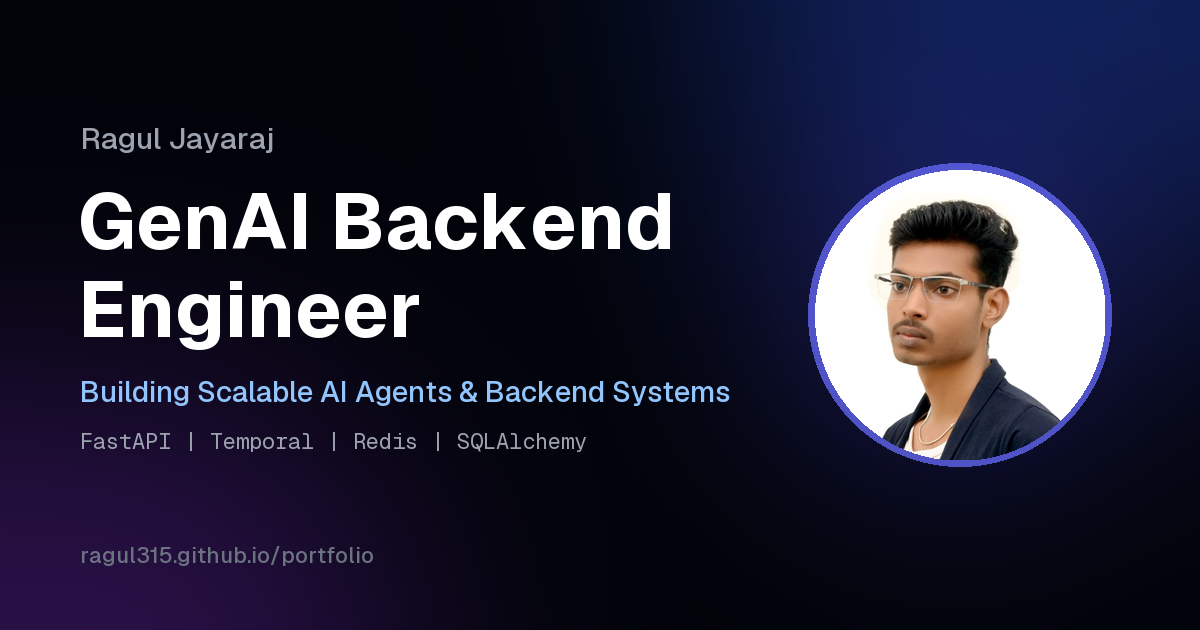
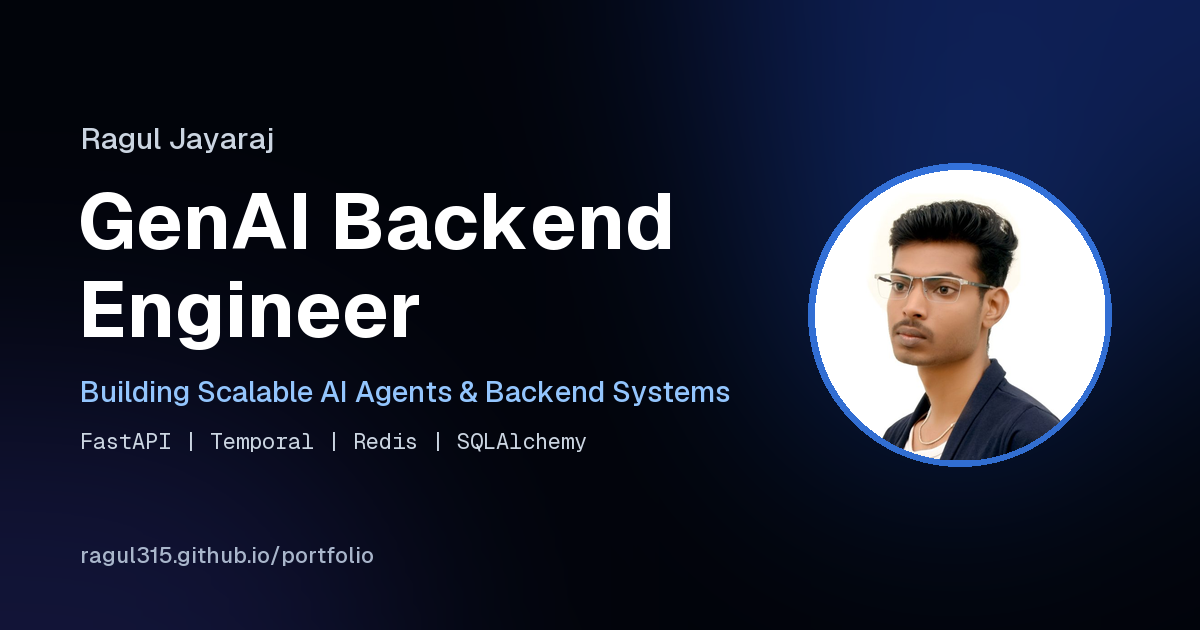
Shift theme blue

diff --git a/assets/css/style.css b/assets/css/style.css
@@ -7,9 +7,9 @@
   --dim: #a9b6cb;
   --card: rgba(17, 24, 39, 0.62);
   --line: rgba(55, 65, 81, 0.55);
-  --line-hi: rgba(99, 102, 241, 0.55);
-  --indigo: #6366f1;
-  --indigo-hi: #818cf8;
+  --line-hi: rgba(59, 130, 246, 0.55);
+  --accent: #3b82f6;
+  --accent-hi: #60a5fa;
   --blue: #93c5fd;
   --radius: 14px;
   --sans: "Geist", "Segoe UI", system-ui, -apple-system, sans-serif;
@@ -26,14 +26,14 @@ h1, h2, h3, h4 { margin: 0; color: var(--text); font-weight: 600; line-height: 1
 p { margin: 0 0 1rem; }
 ul, ol { margin: 0; padding: 0; list-style: none; }
 .mono { font-family: var(--mono); }
-code { font: 500 .88em var(--mono); color: var(--text); background: rgba(99, 102, 241, .12); border: 1px solid rgba(99, 102, 241, .2); padding: .05em .38em; border-radius: 5px; white-space: nowrap; }
-:focus-visible { outline: 2px solid var(--indigo-hi); outline-offset: 3px; border-radius: 6px; }
+code { font: 500 .88em var(--mono); color: var(--text); background: rgba(59, 130, 246, .12); border: 1px solid rgba(59, 130, 246, .2); padding: .05em .38em; border-radius: 5px; white-space: nowrap; }
+:focus-visible { outline: 2px solid var(--accent-hi); outline-offset: 3px; border-radius: 6px; }
 svg { width: 20px; height: 20px; fill: none; stroke: currentColor; stroke-width: 1.6; stroke-linecap: round; stroke-linejoin: round; }
 svg.fill { fill: currentColor; stroke: none; }
 .container { width: min(1120px, 100% - 40px); margin-inline: auto; }
 main { overflow-x: clip; }
 
-.skip-link { position: absolute; left: 12px; top: -50px; z-index: 100; padding: 8px 14px; border-radius: 8px; background: var(--indigo); color: #fff; }
+.skip-link { position: absolute; left: 12px; top: -50px; z-index: 100; padding: 8px 14px; border-radius: 8px; background: var(--accent); color: #fff; }
 .skip-link:focus { top: 12px; }
 
 /* ---------- Background ---------- */
@@ -41,11 +41,11 @@ main { overflow-x: clip; }
   position: fixed; inset: 0; z-index: -1; pointer-events: none;
   background:
     radial-gradient(700px 500px at 82% -5%, rgba(59, 130, 246, 0.12), transparent 70%),
-    radial-gradient(600px 500px at 10% 105%, rgba(168, 85, 247, 0.10), transparent 70%),
-    linear-gradient(135deg, #030712 0%, rgba(23, 37, 84, 0.32) 55%, rgba(59, 7, 100, 0.22) 100%),
+    radial-gradient(600px 500px at 10% 105%, rgba(59, 130, 246, 0.05), transparent 70%),
+    linear-gradient(135deg, #030712 0%, rgba(23, 37, 84, 0.34) 60%, rgba(30, 27, 75, 0.14) 100%),
     var(--bg);
 }
-.scroll-progress { position: fixed; top: 0; left: 0; z-index: 60; height: 2px; width: 100%; background: linear-gradient(90deg, #3b82f6, #6366f1, #a855f7); transform-origin: 0 50%; transform: scaleX(0); }
+.scroll-progress { position: fixed; top: 0; left: 0; z-index: 60; height: 2px; width: 100%; background: linear-gradient(90deg, #3b82f6, #60a5fa 80%, #818cf8); transform-origin: 0 50%; transform: scaleX(0); }
 
 /* ---------- Cards (glass) ---------- */
 .card {
@@ -55,7 +55,7 @@ main { overflow-x: clip; }
 .hover-card { overflow: hidden; transition: border-color .25s, transform .25s; }
 .hover-card::before {
   content: ""; position: absolute; inset: 0; pointer-events: none; opacity: 0; transition: opacity .25s;
-  background: radial-gradient(380px circle at var(--mx, 50%) var(--my, 50%), rgba(99, 102, 241, .09), transparent 50%);
+  background: radial-gradient(380px circle at var(--mx, 50%) var(--my, 50%), rgba(59, 130, 246, .09), transparent 50%);
 }
 .hover-card:hover { border-color: var(--line-hi); transform: translateY(-3px); }
 .hover-card:hover::before { opacity: 1; }
@@ -73,7 +73,7 @@ main { overflow-x: clip; }
 .nav-links { display: flex; gap: 2px; }
 .nav-links a { display: block; padding: 6px 12px; border-radius: 8px; font-size: 14px; font-weight: 500; color: var(--muted); transition: color .2s, background .2s; }
 .nav-links a:hover { color: var(--text); }
-.nav-links a.active { color: var(--text); background: rgba(99, 102, 241, .14); }
+.nav-links a.active { color: var(--text); background: rgba(59, 130, 246, .14); }
 .nav-actions { display: flex; align-items: center; gap: 8px; }
 .ghost-btn {
   display: inline-flex; align-items: center; gap: 8px; height: 38px; padding: 0 10px; border-radius: 8px; cursor: pointer;
@@ -89,8 +89,8 @@ main { overflow-x: clip; }
   font: 600 15px var(--sans); border: 1px solid transparent; transition: background .2s, border-color .2s, color .2s;
 }
 .btn-sm { padding: 8px 14px; font-size: 14px; border-radius: 8px; }
-.btn-primary { color: #fff; background: var(--indigo); }
-.btn-primary:hover { background: #4f46e5; }
+.btn-primary { color: #fff; background: var(--accent); }
+.btn-primary:hover { background: #2563eb; }
 .btn-outline { color: var(--text); background: rgba(17, 24, 39, .5); border-color: var(--line); }
 .btn-outline:hover { border-color: var(--line-hi); }
 
@@ -110,12 +110,12 @@ main { overflow-x: clip; }
 .hero-photo { position: relative; justify-self: center; width: min(270px, 60vw); aspect-ratio: 1; }
 .hero-photo::before {
   content: ""; position: absolute; inset: 8%; border-radius: 50%; z-index: -1; filter: blur(50px);
-  background: radial-gradient(circle, rgba(99, 102, 241, .55), rgba(168, 85, 247, .25) 60%, transparent 70%);
+  background: radial-gradient(circle, rgba(59, 130, 246, .5), rgba(59, 130, 246, .12) 60%, transparent 70%);
 }
-.hero-photo img { position: relative; z-index: 1; width: 100%; height: 100%; object-fit: cover; border-radius: 50%; padding: 6px; background: linear-gradient(140deg, rgba(99,102,241,.7), rgba(59,130,246,.25) 50%, rgba(168,85,247,.6)); }
+.hero-photo img { position: relative; z-index: 1; width: 100%; height: 100%; object-fit: cover; border-radius: 50%; padding: 6px; background: linear-gradient(140deg, rgba(59,130,246,.75), rgba(59,130,246,.25) 55%, rgba(129,140,248,.45)); }
 
 /* Skill chips orbiting the photo; each chip counter-rotates so its text stays upright */
-.ring { position: absolute; z-index: 2; border-radius: 50%; border: 1px solid rgba(99, 102, 241, .28); animation: spin 36s linear infinite; }
+.ring { position: absolute; z-index: 2; border-radius: 50%; border: 1px solid rgba(59, 130, 246, .28); animation: spin 36s linear infinite; }
 .ring-1 { inset: -10%; }
 .ring-2 { inset: -22%; border-style: dashed; border-color: rgba(148, 163, 184, .2); animation-duration: 52s; animation-direction: reverse; animation-delay: -20s; }
 .ring-3 { inset: -34%; border-color: rgba(255, 255, 255, .07); animation-duration: 70s; animation-delay: -45s; }
@@ -132,7 +132,7 @@ main { overflow-x: clip; }
 
 /* ---------- Sections ---------- */
 .section { padding-block: 96px; }
-.label { margin-bottom: 14px; font-size: 12px; font-weight: 500; letter-spacing: .14em; text-transform: uppercase; color: var(--indigo-hi); }
+.label { margin-bottom: 14px; font-size: 12px; font-weight: 500; letter-spacing: .14em; text-transform: uppercase; color: var(--accent-hi); }
 .section-title { font-size: clamp(1.8rem, 3.6vw, 2.6rem); font-weight: 600; max-width: 760px; }
 .section-sub { margin: 12px 0 0; color: var(--muted); }
 .section-title + .filters, .section-title + .skills-grid, .section-title + .timeline, .section-title + .background-grid,
@@ -154,7 +154,7 @@ main { overflow-x: clip; }
 .arch-lines { position: absolute; inset: 0; width: 100%; height: 100%; overflow: visible; }
 .edge { fill: none; stroke: var(--c); stroke-width: 2; stroke-opacity: .55; stroke-dasharray: 5 6; animation: flow 1.4s linear infinite; }
 @keyframes flow { to { stroke-dashoffset: -11; } }
-.lane { fill: rgba(99, 102, 241, .04); stroke: rgba(99, 102, 241, .22); stroke-width: 1; stroke-dasharray: 4 5; }
+.lane { fill: rgba(59, 130, 246, .04); stroke: rgba(59, 130, 246, .22); stroke-width: 1; stroke-dasharray: 4 5; }
 .lane-label, .edge-label { font: 500 10.5px var(--mono); fill: var(--dim); stroke: none; letter-spacing: .04em; }
 .lane-label { text-transform: uppercase; letter-spacing: .1em; fill: #818cf8; }
 .node {
@@ -169,7 +169,7 @@ main { overflow-x: clip; }
 .node-box svg { width: 24px; height: 24px; stroke-width: 1.5; }
 .node-label { font-size: 12.5px; font-weight: 500; color: var(--muted); white-space: nowrap; transition: color .2s; }
 .node.hub { transform: translate(-50%, -32px); }
-.node.hub .node-box { width: 64px; height: 64px; border-color: rgba(99, 102, 241, .5); box-shadow: 0 0 40px rgba(99, 102, 241, .35), 0 0 80px rgba(168, 85, 247, .15); }
+.node.hub .node-box { width: 64px; height: 64px; border-color: rgba(99, 102, 241, .5); box-shadow: 0 0 40px rgba(59, 130, 246, .3), 0 0 80px rgba(59, 130, 246, .12); }
 .node.hub .node-box svg { width: 30px; height: 30px; }
 .node.hub .node-label { font-weight: 600; color: #a5b4fc; }
 .node:hover .node-box, .node.active .node-box, .node:focus-visible .node-box { border-color: var(--c); transform: translateY(-2px); box-shadow: 0 0 24px color-mix(in srgb, var(--c) 35%, transparent); }
@@ -181,15 +181,15 @@ main { overflow-x: clip; }
 
 /* Timeline */
 .timeline { position: relative; padding-left: 30px; }
-.timeline::before { content: ""; position: absolute; left: 6px; top: 14px; bottom: 14px; width: 1px; background: linear-gradient(180deg, var(--indigo), rgba(99,102,241,.2) 70%, transparent); }
+.timeline::before { content: ""; position: absolute; left: 6px; top: 14px; bottom: 14px; width: 1px; background: linear-gradient(180deg, var(--accent), rgba(59,130,246,.2) 70%, transparent); }
 .tl-item { position: relative; margin-bottom: 20px; }
-.tl-item::before { content: ""; position: absolute; left: -29px; top: 30px; width: 11px; height: 11px; border-radius: 50%; background: var(--bg); border: 2px solid var(--indigo-hi); }
-.tl-item.current::before { background: var(--indigo-hi); box-shadow: 0 0 0 4px rgba(99, 102, 241, .2); }
+.tl-item::before { content: ""; position: absolute; left: -29px; top: 30px; width: 11px; height: 11px; border-radius: 50%; background: var(--bg); border: 2px solid var(--accent-hi); }
+.tl-item.current::before { background: var(--accent-hi); box-shadow: 0 0 0 4px rgba(59, 130, 246, .2); }
 .tl-card { padding: 24px 26px; }
 .tl-head { display: flex; gap: 14px; align-items: center; margin-bottom: 14px; }
 .tl-logo {
   flex: none; width: 46px; height: 46px; border-radius: 10px; overflow: hidden; display: grid; place-items: center;
-  font: 600 13px var(--sans); color: var(--text); background: rgba(99, 102, 241, .18); border: 1px solid var(--line);
+  font: 600 13px var(--sans); color: var(--text); background: rgba(59, 130, 246, .18); border: 1px solid var(--line);
 }
 .tl-logo img { width: 100%; height: 100%; object-fit: cover; }
 .tl-title { font-size: 1.1rem; }
@@ -198,7 +198,7 @@ main { overflow-x: clip; }
 .pill { display: inline-block; margin-left: 8px; padding: 1px 9px; border-radius: 999px; font-size: 12px; font-weight: 500; color: var(--blue); background: rgba(59, 130, 246, .1); border: 1px solid rgba(59, 130, 246, .25); }
 .tl-list { display: grid; gap: 8px; margin-bottom: 16px; }
 .tl-list li { position: relative; padding-left: 18px; color: var(--muted); }
-.tl-list li::before { content: ""; position: absolute; left: 2px; top: .72em; width: 5px; height: 5px; border-radius: 50%; background: var(--indigo-hi); }
+.tl-list li::before { content: ""; position: absolute; left: 2px; top: .72em; width: 5px; height: 5px; border-radius: 50%; background: var(--accent-hi); }
 
 .tags { display: flex; flex-wrap: wrap; gap: 6px; }
 .tag { padding: 3px 10px; border-radius: 6px; font: 500 12.5px var(--mono); color: var(--muted); background: rgba(31, 41, 55, .6); border: 1px solid var(--line); }
@@ -207,7 +207,7 @@ main { overflow-x: clip; }
 .filters { display: flex; flex-wrap: wrap; gap: 8px; margin-bottom: 24px; }
 .filter { padding: 7px 14px; border-radius: 8px; cursor: pointer; font: 500 14px var(--sans); color: var(--muted); background: transparent; border: 1px solid var(--line); transition: color .2s, border-color .2s, background .2s; }
 .filter:hover { color: var(--text); border-color: var(--line-hi); }
-.filter[aria-pressed="true"] { color: #fff; background: var(--indigo); border-color: var(--indigo); }
+.filter[aria-pressed="true"] { color: #fff; background: var(--accent); border-color: var(--accent); }
 .filter .count { margin-left: 6px; font: 500 12px var(--mono); opacity: .7; }
 .project-grid { display: grid; grid-template-columns: repeat(auto-fill, minmax(320px, 1fr)); gap: 18px; }
 .project { display: flex; flex-direction: column; padding: 26px; }
@@ -220,11 +220,11 @@ main { overflow-x: clip; }
 .project-summary { color: var(--muted); }
 .project-highlights { display: grid; gap: 7px; margin-bottom: 16px; }
 .project-highlights li { position: relative; padding-left: 18px; color: var(--muted); font-size: 15px; }
-.project-highlights li::before { content: ""; position: absolute; left: 2px; top: .7em; width: 5px; height: 5px; border-radius: 50%; background: var(--indigo-hi); }
+.project-highlights li::before { content: ""; position: absolute; left: 2px; top: .7em; width: 5px; height: 5px; border-radius: 50%; background: var(--accent-hi); }
 .project-foot { margin-top: auto; display: flex; flex-direction: column; align-items: flex-start; gap: 16px; padding-top: 14px; }
 .project-link { display: inline-flex; align-items: center; gap: 8px; font-size: 14px; font-weight: 600; color: var(--text); }
 .project-link svg { width: 18px; height: 18px; }
-.project-link:hover { color: var(--indigo-hi); }
+.project-link:hover { color: var(--accent-hi); }
 .project.hide { display: none; }
 .project.enter { animation: rise .35s ease both; }
 @keyframes rise { from { opacity: 0; transform: translateY(10px); } }
@@ -238,7 +238,7 @@ main { overflow-x: clip; }
 /* Writing */
 .writing-list { display: grid; gap: 12px; }
 .post { display: grid; grid-template-columns: 1fr auto; align-items: center; gap: 24px; padding: 22px 26px; }
-.post-kind { display: inline-block; margin-bottom: 8px; font-size: 11px; letter-spacing: .1em; text-transform: uppercase; color: var(--indigo-hi); }
+.post-kind { display: inline-block; margin-bottom: 8px; font-size: 11px; letter-spacing: .1em; text-transform: uppercase; color: var(--accent-hi); }
 .post h3 { font-size: 1.08rem; margin-bottom: 4px; }
 .post p { margin: 0; color: var(--dim); font-size: 15px; }
 .post-arrow { display: grid; place-items: center; width: 38px; height: 38px; border-radius: 10px; border: 1px solid var(--line); color: var(--muted); transition: color .2s, border-color .2s, transform .2s; }
@@ -247,7 +247,7 @@ main { overflow-x: clip; }
 /* Background */
 .background-grid { display: grid; grid-template-columns: 1fr 1fr; gap: 18px; }
 .panel { padding: 28px; }
-.panel-title { margin-bottom: 18px; font-size: 11px; font-weight: 500; letter-spacing: .14em; text-transform: uppercase; color: var(--indigo-hi); }
+.panel-title { margin-bottom: 18px; font-size: 11px; font-weight: 500; letter-spacing: .14em; text-transform: uppercase; color: var(--accent-hi); }
 .panel-title.spaced { margin-top: 32px; }
 .edu-item h4, .lead-item h4 { margin-bottom: 2px; font-size: 1.05rem; }
 .edu-item p, .lead-item p { margin: 0; color: var(--muted); }
@@ -262,7 +262,7 @@ main { overflow-x: clip; }
 
 /* Contact */
 .contact-card { padding: clamp(32px, 6vw, 60px); text-align: center; overflow: hidden; }
-.contact-card::before { content: ""; position: absolute; left: 50%; bottom: -70%; width: 90%; aspect-ratio: 1; transform: translateX(-50%); pointer-events: none; background: radial-gradient(closest-side, rgba(99, 102, 241, .22), transparent); }
+.contact-card::before { content: ""; position: absolute; left: 50%; bottom: -70%; width: 90%; aspect-ratio: 1; transform: translateX(-50%); pointer-events: none; background: radial-gradient(closest-side, rgba(59, 130, 246, .22), transparent); }
 .contact-card > * { position: relative; }
 .contact-card h2 { font-size: clamp(1.8rem, 4vw, 2.8rem); }
 .contact-card p { margin-top: 14px; color: var(--muted); }
@@ -287,7 +287,7 @@ main { overflow-x: clip; }
 .palette-list { max-height: 320px; overflow-y: auto; padding: 6px; }
 .palette-list li { display: flex; justify-content: space-between; align-items: center; gap: 12px; padding: 10px 14px; border-radius: 8px; cursor: pointer; color: var(--muted); }
 .palette-list li .hint { font: 400 12px var(--mono); color: var(--dim); }
-.palette-list li.selected { color: var(--text); background: rgba(99, 102, 241, .16); }
+.palette-list li.selected { color: var(--text); background: rgba(59, 130, 246, .16); }
 .palette-list .empty { cursor: default; color: var(--dim); }
 .palette-hint { margin: 0; padding: 10px 16px; font-size: 11.5px; color: var(--dim); border-top: 1px solid var(--line); }
 

diff --git a/assets/js/data.js b/assets/js/data.js
@@ -12,7 +12,7 @@ window.PORTFOLIO = {
     orbit: [
       { label: "FastAPI", color: "#22d3ee" },
       { label: "Temporal", color: "#818cf8" },
-      { label: "MCP", color: "#f472b6" },
+      { label: "MCP", color: "#93c5fd" },
     ],
     email: "j.ragul315@gmail.com",
     links: {
@@ -53,13 +53,13 @@ window.PORTFOLIO = {
         detail: "Content moderation built with the Factory pattern, so any content-safety provider can plug in. It runs on Azure AI Content Safety today." },
       { id: "temporal", label: "Temporal", icon: "branch", x: 500, y: 200, color: "#818cf8", hub: true,
         detail: "Temporal orchestrates long-running agent work with custom retry policies, so a failure resumes instead of starting over." },
-      { id: "agent", label: "AI Agent", icon: "cpu", x: 640, y: 70, color: "#c084fc",
+      { id: "agent", label: "AI Agent", icon: "cpu", x: 640, y: 70, color: "#a78bfa",
         detail: "Task-oriented AI agents that plan the work and decide which steps and tools to run." },
-      { id: "llm", label: "LLM", icon: "sparkle", x: 790, y: 70, color: "#e879f9",
+      { id: "llm", label: "LLM", icon: "sparkle", x: 790, y: 70, color: "#93c5fd",
         detail: "The agent calls the LLM to reason over the task and generate a response." },
       { id: "output", label: "Validated output", icon: "check", x: 920, y: 70, color: "#38bdf8",
         detail: "Model output is parsed into strict Pydantic schemas before anything downstream uses it." },
-      { id: "tools", label: "Tools (MCP)", icon: "wrench", x: 640, y: 200, color: "#f472b6",
+      { id: "tools", label: "Tools (MCP)", icon: "wrench", x: 640, y: 200, color: "#cbd5e1",
         detail: "Workflows discover and call external tools through MCP servers." },
       { id: "redis", label: "Redis", icon: "grid", x: 640, y: 330, color: "#f87171",
         detail: "Redis caches system prompts and other hot reads, which cuts database cost and speeds up retrieval." },
